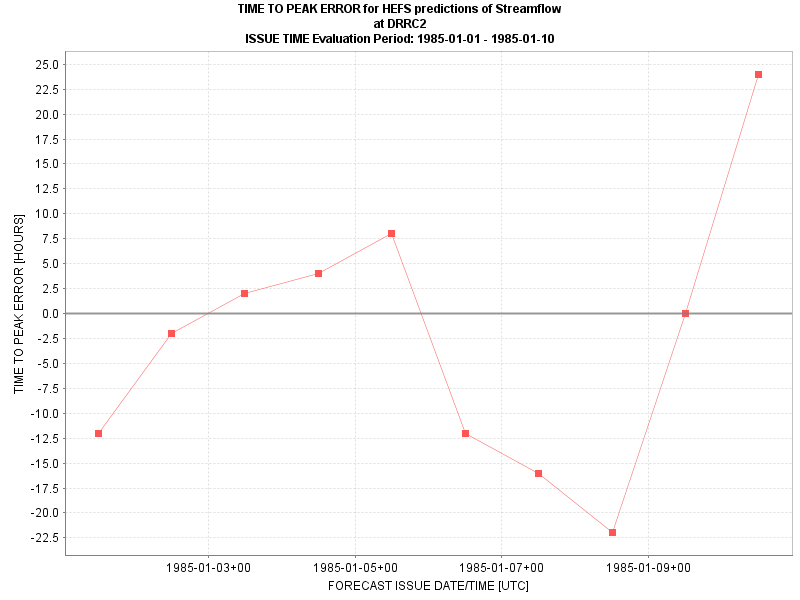
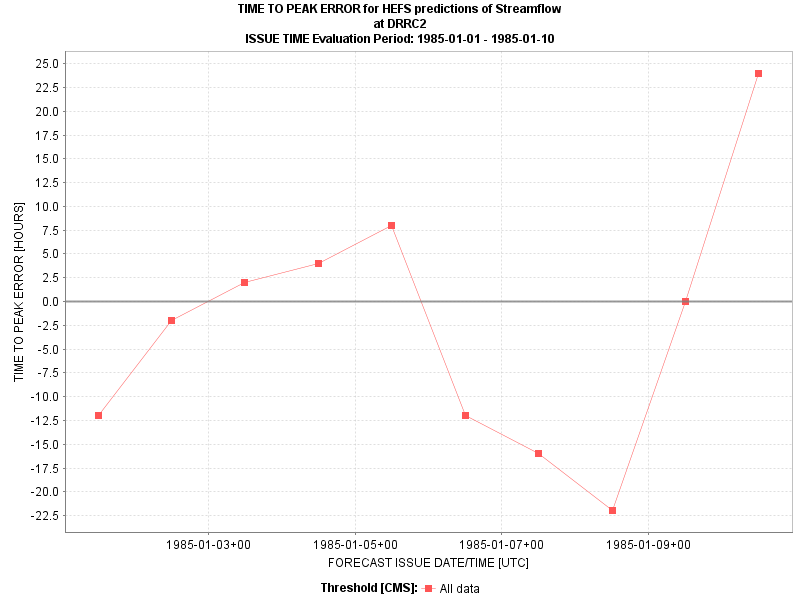
Updates to legend for time-to-peak plots; Refs #48327

diff --git a/wres-vis/src/wres/vis/XYChartDataSourceFactory.java b/wres-vis/src/wres/vis/XYChartDataSourceFactory.java
@@ -157,10 +157,10 @@ public abstract class XYChartDataSourceFactory
                 // Filter by lead time and then by threshold
                 for ( Entry<Pair<TimeWindow, OneOrTwoThresholds>, PairedOutput<Instant, Duration>> entry : input.entrySet() )
                 {
-                    Long time = entry.getKey().getLeft().getLatestLeadTimeInHours();
+//                    Long time = entry.getKey().getLeft().getLatestLeadTimeInHours();  We decided not to include this:
                     OneOrTwoThresholds threshold = entry.getKey().getRight();
                     TimeSeries next =
-                            new TimeSeries( time + ", " + threshold.toStringWithoutUnits(), FixedMillisecond.class );
+                            new TimeSeries( threshold.toStringWithoutUnits(), FixedMillisecond.class );  
                     for ( Pair<Instant, Duration> oneValue : entry.getValue() )
                     {
                         next.add( new FixedMillisecond( oneValue.getLeft().toEpochMilli() ),
@@ -456,18 +456,18 @@ public abstract class XYChartDataSourceFactory
             }
             yAxisValuesBySeries.add( yValues );
             
-            //Define the legend entry.
-            TimeWindow timeWindow = entry.getKey().getLeft();
-            String leadKey = Long.toString( timeWindow.getLatestLeadTime().toHours() );
-            if ( !timeWindow.getEarliestLeadTime().equals( timeWindow.getLatestLeadTime() ) )
-            {
-                leadKey = "(" + timeWindow.getEarliestLeadTime().toHours()
-                          + ","
-                          + timeWindow.getLatestLeadTime().toHours()
-                          + "]";
-            }
-            legendEntryBySeries.add( leadKey + ", "
-                                              + entry.getKey().getRight().toStringWithoutUnits());
+            //Define the legend entry.  The commented out code specifies the lead time.  But we decided
+            //not to include it for this plot.
+//            TimeWindow timeWindow = entry.getKey().getLeft();
+//            String leadKey = Long.toString( timeWindow.getLatestLeadTime().toHours() );
+//            if ( !timeWindow.getEarliestLeadTime().equals( timeWindow.getLatestLeadTime() ) )
+//            {
+//                leadKey = "(" + timeWindow.getEarliestLeadTime().toHours()
+//                          + ","
+//                          + timeWindow.getLatestLeadTime().toHours()
+//                          + "]";
+//            }
+            legendEntryBySeries.add( entry.getKey().getRight().toStringWithoutUnits());
             populateCategories = false;
         }
 

diff --git a/wres-vis/src/wres/vis/ChartEngineFactory.java b/wres-vis/src/wres/vis/ChartEngineFactory.java
@@ -866,7 +866,7 @@ public abstract class ChartEngineFactory
         //Setup plot specific arguments.
         arguments.addBaselineArguments( meta );
         arguments.addDurationMetricArguments();
-        arguments.addPoolingWindowArguments( input );
+        arguments.addTimeToPeakArguments( input );
 
         //Build the source.
         XYChartDataSource source = null;
@@ -919,7 +919,7 @@ public abstract class ChartEngineFactory
         //Setup plot specific arguments.
         arguments.addBaselineArguments( meta );
         arguments.addDurationMetricArguments();
-        arguments.addPoolingWindowArguments( input );
+        arguments.addTimeToPeakArguments( input );
 
         //Setup the assumed source and arguments.
         CategoricalXYChartDataSource source =

diff --git a/wres-vis/src/wres/vis/WRESArgumentProcessor.java b/wres-vis/src/wres/vis/WRESArgumentProcessor.java
@@ -308,6 +308,17 @@ public class WRESArgumentProcessor extends DefaultArgumentsProcessor
     {
         addArgument( "outputUnitsLabelSuffix", " [HOURS]" );
     }
+    
+    /**
+     * Custom method created for the time-to-peak plots.
+     * @param displayedPlotInput the plot input
+     */
+    public void addTimeToPeakArguments(MetricOutputMapByTimeAndThreshold<?> displayedPlotInput )
+    {
+        final MetricOutputMetadata meta = displayedPlotInput.getMetadata();
+        addArgument( "legendTitle", "Threshold " );
+        addArgument( "legendUnitsText", "[" + meta.getInputDimension() + "]" );
+    }
 
     /**
      * Adds arguments related to the baseline forecasts for skill scores.
